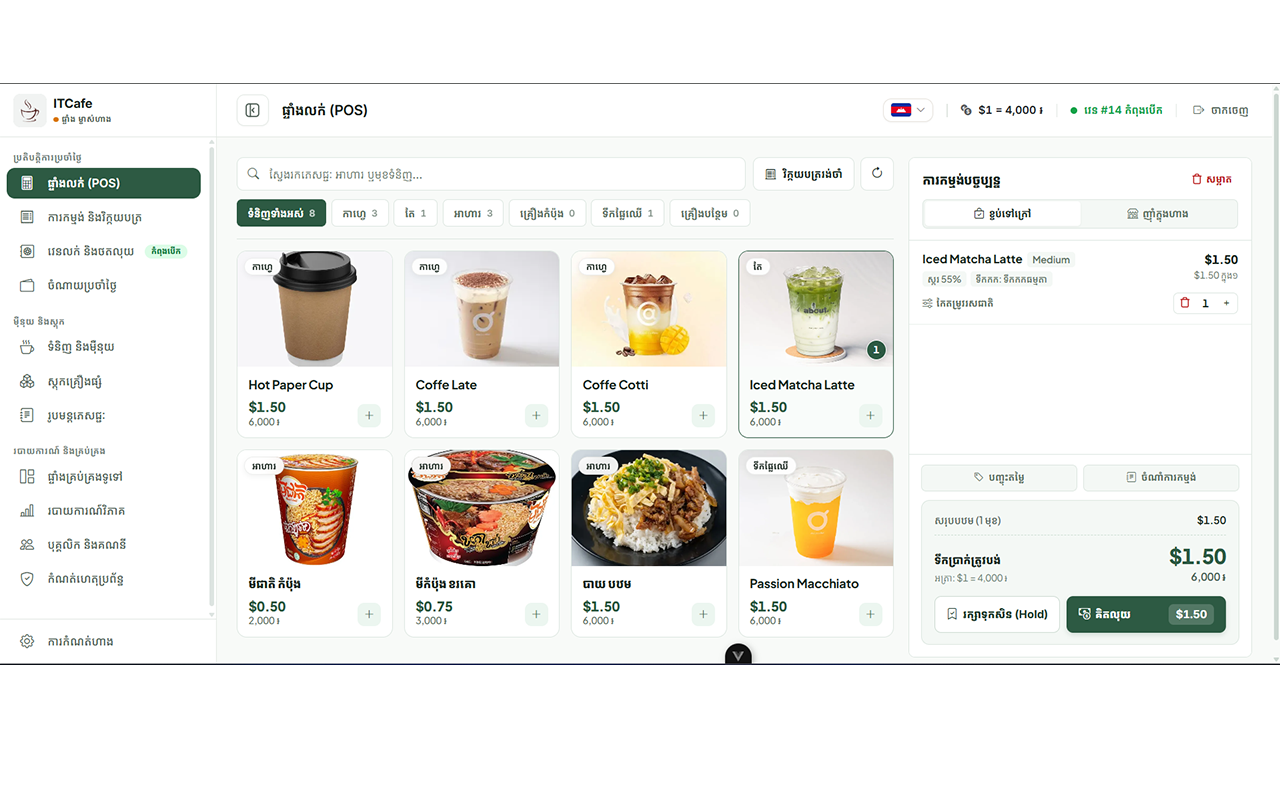
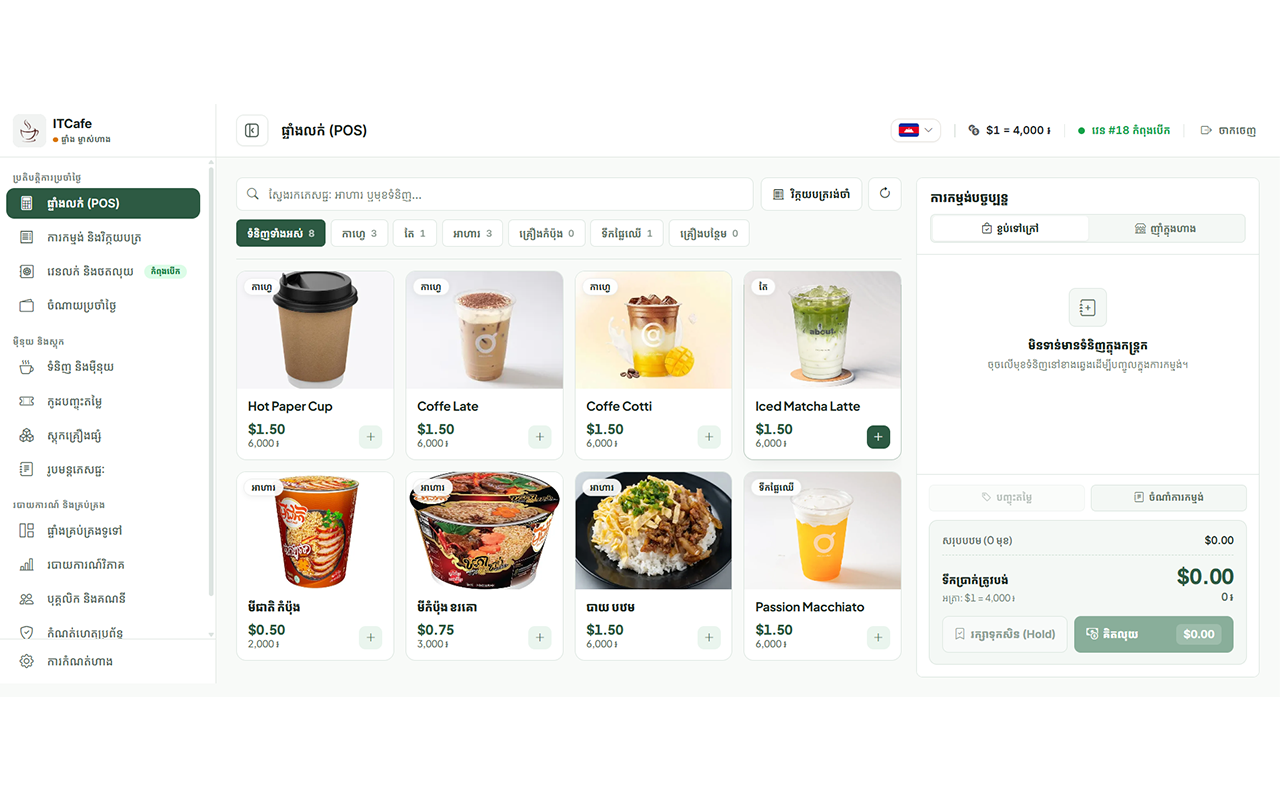
update data card project

diff --git a/src/stores/portfolioData.ts b/src/stores/portfolioData.ts
@@ -3,6 +3,10 @@ import posCafeImg from '@/assets/images/projects/Untitled-1.png'
 import tgSenderImg from '@/assets/images/projects/Untitled-2.png'
 import antForumImg from '@/assets/images/projects/Untitled-3.png'
 import phsarYerngImg from '@/assets/images/projects/Untitled-4.png'
+import posCafeImg2 from '@/assets/images/projects/Untitled-5.png'
+import posCafeImg3 from '@/assets/images/projects/Untitled-6.png'
+import posCafeImg4 from '@/assets/images/projects/Untitled-7.png'
+import tgSenderImg2 from '@/assets/images/projects/Untitled-8.png'
 
 export type ProjectCategory = 'Full-Stack' | 'Frontend' | 'Backend & DevOps'
 
@@ -125,7 +129,7 @@ export const portfolioData: PortfolioProfile = {
       id: 'pos-system-cafe',
       title: 'pos system cafe',
       subtitle: 'Manage Cafe shop',
-      timeline: 'Oct 2026 – Nov 2026',
+      timeline: 'Nov 2026 – Nov 2026',
       category: 'Full-Stack',
       featured: true,
       image: posCafeImg,
@@ -138,6 +142,9 @@ export const portfolioData: PortfolioProfile = {
       demoVideoUrl: '',
       screenshots: [
         { image: posCafeImg, caption: 'POS order & checkout screen' },
+        { image: posCafeImg2, caption: 'Dashboard for admin' },
+        { image: posCafeImg3, caption: 'page promote code for admin' },
+        { image: posCafeImg4, caption: 'system for staff' },
       ],
     },
     {
@@ -150,12 +157,13 @@ export const portfolioData: PortfolioProfile = {
       image: tgSenderImg,
       summary: 'TG-Sender is a tool that can send messages to Telegram users.',
       stack: ['Bootstrap', 'Vue 3', 'ExpressJS', 'MySQL'],
-      liveUrl: '',
+      liveUrl: 'https://telegram-sender-sandy.vercel.app/',
       frontendRepoUrl: 'https://github.com/songhai-yeanlang/telegram-auto-sender-frontend.git',
       backendRepoUrl: 'https://github.com/songhai-yeanlang/telegram-auto-sender-backend.git',
       demoVideoUrl: '',
       screenshots: [
         { image: tgSenderImg, caption: 'Broadcast composer & recipient list' },
+        { image: tgSenderImg2, caption: 'page manage users ' },
       ],
     },
     {
@@ -169,10 +177,10 @@ export const portfolioData: PortfolioProfile = {
       summary:
         'A community website for discussing, sharing knowledge, and showcasing various software development projects.',
       stack: ['Vue.js', 'Booystrap', 'ExpressJS', 'MySQL'],
-      liveUrl: 'https://github.com/songhai-yeanlang',
-      frontendRepoUrl: 'https://github.com/songhai-yeanlang',
-      backendRepoUrl: 'https://github.com/songhai-yeanlang',
-      demoVideoUrl: '',
+      liveUrl: 'https://front-end-ant-forum.vercel.app/',
+      frontendRepoUrl: 'https://github.com/ant-forum',
+      backendRepoUrl: 'https://github.com/ant-forum',
+      demoVideoUrl: 'https://www.youtube.com/watch?v=Gr_JCYQpSoU',
       screenshots: [antForumImg],
     },
     {
@@ -184,16 +192,16 @@ export const portfolioData: PortfolioProfile = {
       featured: true,
       image: '',
       summary:
-        'is a sample blog post website for my practice full-stack development.',
-      stack: ['Vue.js', 'ExpressJS', 'PostgreSQL'],
-      liveUrl: 'https://github.com/songhai-yeanlang',
-      frontendRepoUrl: 'https://github.com/songhai-yeanlang',
-      backendRepoUrl: 'https://github.com/songhai-yeanlang',
+        'is a sample blog post website for my first practice full-stack development.',
+      stack: ['Tailwind CSS', 'ExpressJS', 'MySQL', 'Vue 3'],
+      liveUrl: 'https://blog-platform-frontend-eta.vercel.app/',
+      frontendRepoUrl: 'https://github.com/songhai-yeanlang/Blog-Platform-Frontend.git',
+      backendRepoUrl: 'https://github.com/songhai-yeanlang/Blog-Platform-Backend.git',
       demoVideoUrl: '',
       screenshots: [],
     },
     {
-      id: 'phsar-yerng-1',
+      id: 'phsar-yerng',
       title: 'phsar yerng ',
       subtitle: ' Website Ecommunce ',
        timeline: 'Jam 2026 – Mar 2026',
@@ -202,11 +210,11 @@ export const portfolioData: PortfolioProfile = {
       image: phsarYerngImg,
       summary:
         'all in one website that allow user can buy and sell in here !',
-      stack: ['Node.js', 'ExpressJS', 'PostgreSQL', 'Postman'],
-      liveUrl: 'https://github.com/songhai-yeanlang',
-      frontendRepoUrl: 'https://github.com/songhai-yeanlang',
-      backendRepoUrl: 'https://github.com/songhai-yeanlang',
-      demoVideoUrl: '',
+      stack: [' fetch api ', 'Vue.js', 'Bootstrap'],
+      liveUrl: 'https://vue-e-commerce-ant.vercel.app/',
+      frontendRepoUrl: 'https://github.com/Alchemyyyy/Vue-E-Commerce-ANT.git',
+      backendRepoUrl: '',
+      demoVideoUrl: 'https://youtu.be/qX9gBAeHBM4?si=UkAWDPAaPXoHfWNt',
       screenshots: [phsarYerngImg],
     },
   

diff --git a/src/views/ProjectDetailView.vue b/src/views/ProjectDetailView.vue
@@ -21,28 +21,6 @@ const normalizedScreenshots = computed<ProjectScreenshot[]>(() => {
     .filter((entry) => Boolean(entry.image))
 })
 
-const youtubeEmbedUrl = computed(() => {
-  const url = project.value?.demoVideoUrl?.trim()
-  if (!url) return null
-
-  const shortMatch = url.match(/youtu\.be\/([a-zA-Z0-9_-]{11})/)
-  if (shortMatch?.[1]) return `https://www.youtube.com/embed/${shortMatch[1]}`
-
-  const watchMatch = url.match(/[?&]v=([a-zA-Z0-9_-]{11})/)
-  if (watchMatch?.[1]) return `https://www.youtube.com/embed/${watchMatch[1]}`
-
-  const embedMatch = url.match(/youtube\.com\/embed\/([a-zA-Z0-9_-]{11})/)
-  if (embedMatch?.[1]) return `https://www.youtube.com/embed/${embedMatch[1]}`
-
-  return null
-})
-
-const isDirectVideoFile = computed(() => {
-  const url = project.value?.demoVideoUrl?.trim().toLowerCase()
-  if (!url) return false
-  return url.endsWith('.mp4') || url.endsWith('.webm') || url.endsWith('.ogg')
-})
-
 const resourceLinks = computed(() => {
   const p = project.value
   if (!p) return []
@@ -344,28 +322,7 @@ onUnmounted(() => {
         </section>
       </template>
 
-      <!-- 2. Embedded Video Demo Player (Auto-shown for YouTube or direct MP4/WebM URLs) -->
-      <template v-if="youtubeEmbedUrl || isDirectVideoFile">
-        <div class="mx-auto h-10 w-px bg-zinc-200 dark:bg-carbon-line" aria-hidden="true" />
-
-        <section aria-labelledby="video-heading"
-          class="relative rounded-lg border border-zinc-200 bg-white p-5 pt-7 sm:p-6 sm:pt-7 dark:border-carbon-line dark:bg-carbon">
-          <h2 id="video-heading"
-            class="absolute top-0 left-1/2 -translate-x-1/2 -translate-y-1/2 bg-white px-3.5 text-[11px] font-medium tracking-[0.07em] text-zinc-900 select-none dark:bg-carbon dark:text-zinc-100">
-            VIDEO DEMO
-          </h2>
-
-          <div class="overflow-hidden rounded-md border border-zinc-200 bg-black aspect-video dark:border-carbon-line">
-            <iframe v-if="youtubeEmbedUrl" :src="youtubeEmbedUrl" :title="`${project.title} video demo`"
-              class="h-full w-full"
-              allow="accelerometer; autoplay; clipboard-write; encrypted-media; gyroscope; picture-in-picture"
-              allowfullscreen />
-            <video v-else-if="isDirectVideoFile" :src="project.demoVideoUrl" controls class="h-full w-full" />
-          </div>
-        </section>
-      </template>
-
-      <!-- 4. System Screenshots Gallery -->
+      <!-- 3. System Screenshots Gallery -->
       <div class="mx-auto h-10 w-px bg-zinc-200 dark:bg-carbon-line" aria-hidden="true" />
 
       <section aria-labelledby="screenshots-heading"

diff --git a/index.html b/index.html
@@ -2,9 +2,9 @@
 <html lang="en">
   <head>
     <meta charset="UTF-8">
-    <link rel="icon" href="/favicon.ico">
+    <link rel="icon" type="image/svg+xml" href="/favicon.svg">
     <meta name="viewport" content="width=device-width, initial-scale=1.0">
-    <title>Songhai Yeanlang — Portfolio</title>
+    <title>Songhai Yeanlang</title>
     <link rel="preconnect" href="https://fonts.googleapis.com">
     <link rel="preconnect" href="https://fonts.gstatic.com" crossorigin>
     <link href="https://fonts.googleapis.com/css2?family=Geist+Mono:wght@400;500&family=Geist:wght@400;500;600&display=swap" rel="stylesheet">
